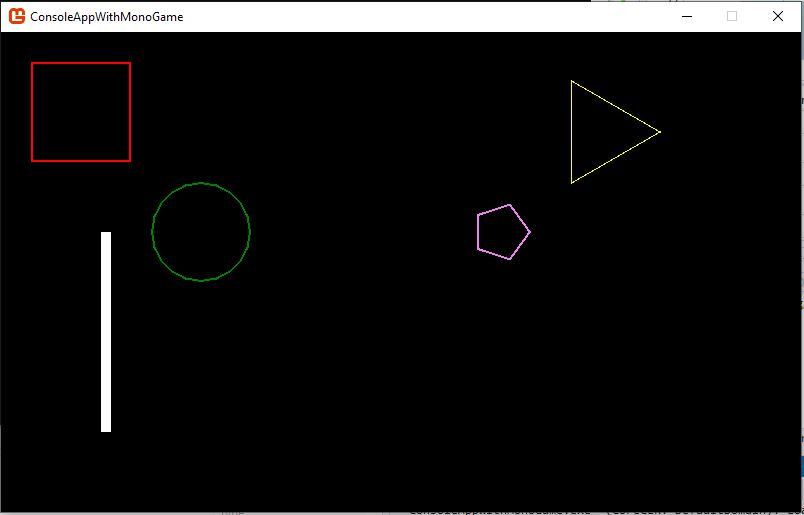
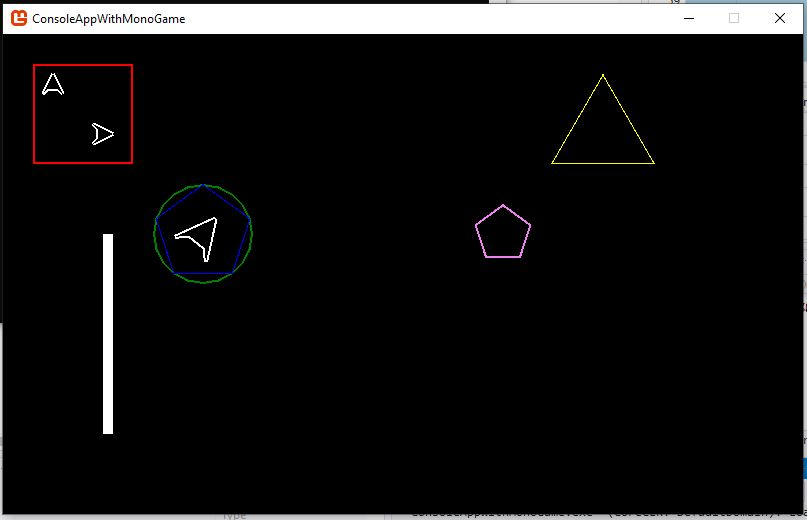
Update

diff --git a/ConsoleAppWithMonoGame/DummyGame.cs b/ConsoleAppWithMonoGame/DummyGame.cs
@@ -1,5 +1,6 @@
 using Microsoft.Xna.Framework;
 using Microsoft.Xna.Framework.Graphics;
+using Microsoft.Xna.Framework.Input;
 
 namespace ConsoleAppWithMonoGame
 {
@@ -43,7 +44,11 @@ namespace ConsoleAppWithMonoGame
         protected override void Update(GameTime gameTime)
         {
             float dt = (float)gameTime.ElapsedGameTime.TotalSeconds;
-            _rotationAngle = (_rotationAngle + _rotationalSpeed * dt) % MathHelper.TwoPi;
+
+            var kstate = Keyboard.GetState();
+
+            if (kstate.IsKeyDown(Keys.R))
+                _rotationAngle = (_rotationAngle + _rotationalSpeed * dt) % MathHelper.TwoPi;
 
             base.Update(gameTime);
         }

diff --git a/ConsoleAppWithMonoGame/Program.cs b/ConsoleAppWithMonoGame/Program.cs
@@ -4,16 +4,13 @@ namespace ConsoleAppWithMonoGame
 {
     class Program
     {
+        [STAThread]
         static void Main(string[] args)
         {
-
-
-            
-
-            DummyGame game = new DummyGame();
-            
-
-            game.Run();
+            using (DummyGame game = new DummyGame())
+            {
+                game.Run();
+            }
         }
     }
 }
